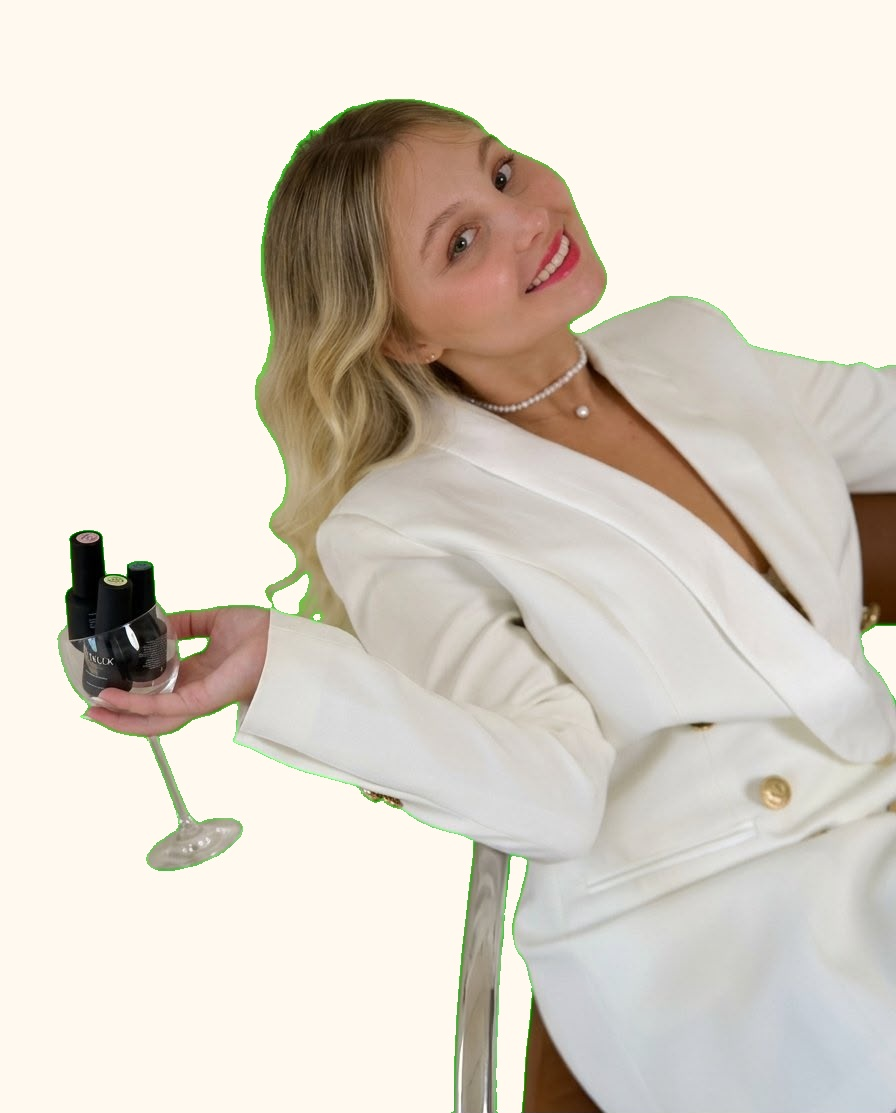
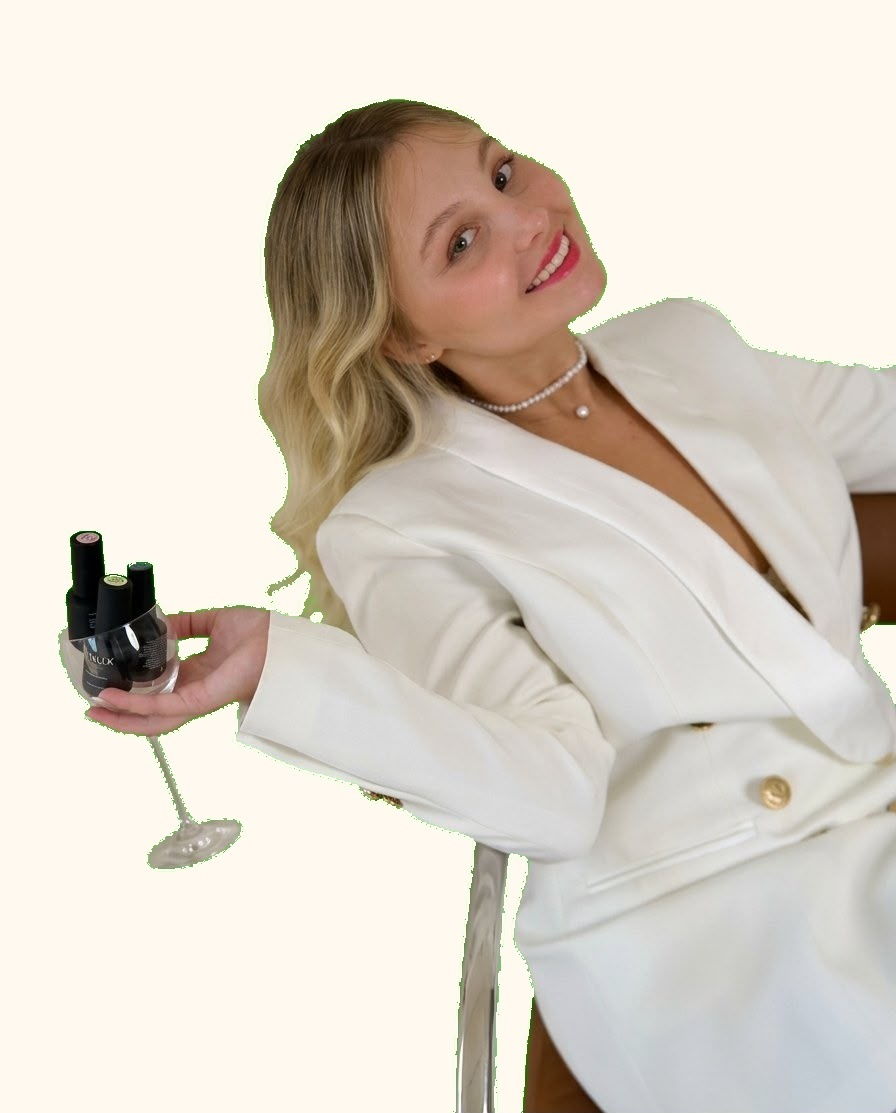
Remove green remnants from hero image and add as subtle background
- Remove remaining green pixels from nicole-hero.jpg using improved detection
- Add nicole-hero.jpg as background in Support section with 35% opacity
- Add cream color overlay (55% opacity) for improved text readability
- Content remains at 100% opacity with z-index layering
- Creates subtle, elegant background effect without distracting from text

diff --git a/app/page.jsx b/app/page.jsx
@@ -711,21 +711,54 @@ export default function Home() {
       </section>
 
       {/* Support */}
-      <section id="support" className="py-24 px-[6.4%] text-center" style={{ backgroundColor: 'var(--skyblue)' }}>
-        <span className="eyebrow">{CONTENT.support.eyebrow}</span>
-        <h2
-          className="font-serif text-2xl md:text-4xl mt-3 reveal in"
+      <section id="support" className="py-24 px-[6.4%] text-center relative overflow-hidden" style={{ backgroundColor: 'var(--skyblue)' }}>
+        {/* Background image with opacity overlay */}
+        <div
           style={{
-            color: 'var(--navy)',
-            animationDelay: '0.2s',
-            animation: 'bounce 2s ease-in-out infinite'
+            position: 'absolute',
+            top: 0,
+            left: 0,
+            right: 0,
+            bottom: 0,
+            backgroundImage: 'url(/images/nicole-hero.jpg)',
+            backgroundSize: 'cover',
+            backgroundPosition: 'center',
+            opacity: 0.35,
+            zIndex: 0,
           }}
-        >
-          {CONTENT.support.headline}
-        </h2>
-        <p className="lede mt-6 mx-auto reveal in" style={{ color: 'var(--navy-soft)', animationDelay: '0.3s' }}>
-          {CONTENT.support.text}
-        </p>
+        />
+
+        {/* Cream overlay for better readability */}
+        <div
+          style={{
+            position: 'absolute',
+            top: 0,
+            left: 0,
+            right: 0,
+            bottom: 0,
+            backgroundColor: 'rgba(255, 249, 239, 0.55)',
+            zIndex: 1,
+          }}
+        />
+
+        {/* Content with z-index */}
+        <div style={{ position: 'relative', zIndex: 2 }}>
+          <span className="eyebrow">{CONTENT.support.eyebrow}</span>
+          <h2
+            className="font-serif text-2xl md:text-4xl mt-3 reveal in"
+            style={{
+              color: 'var(--navy)',
+              animationDelay: '0.2s',
+              animation: 'bounce 2s ease-in-out infinite'
+            }}
+          >
+            {CONTENT.support.headline}
+          </h2>
+          <p className="lede mt-6 mx-auto reveal in" style={{ color: 'var(--navy-soft)', animationDelay: '0.3s' }}>
+            {CONTENT.support.text}
+          </p>
+        </div>
+
         <style>{`
           @keyframes bounce {
             0%, 100% { transform: translateY(0); }
